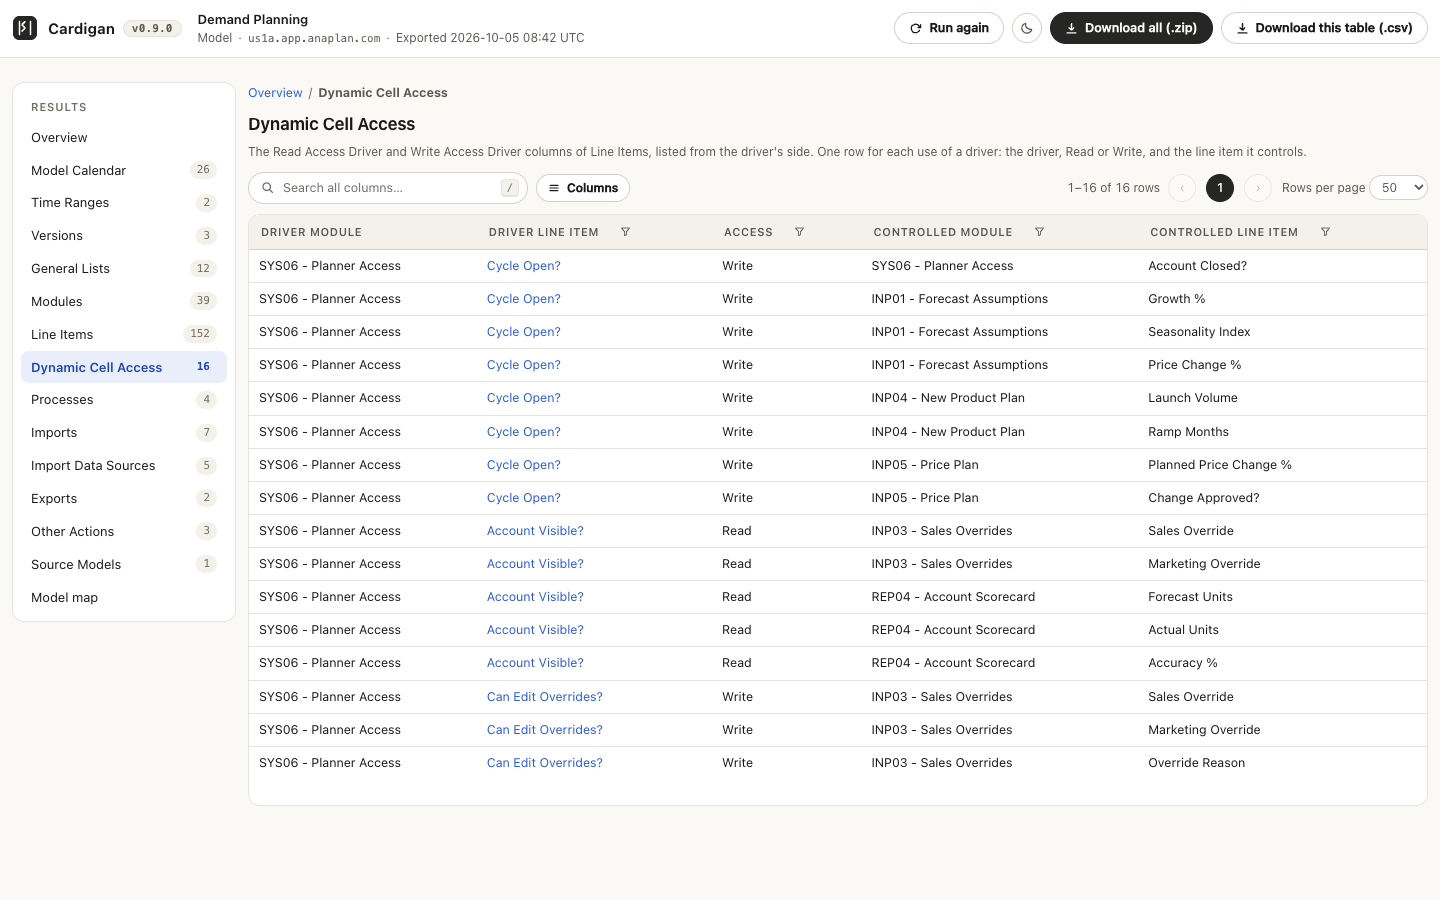
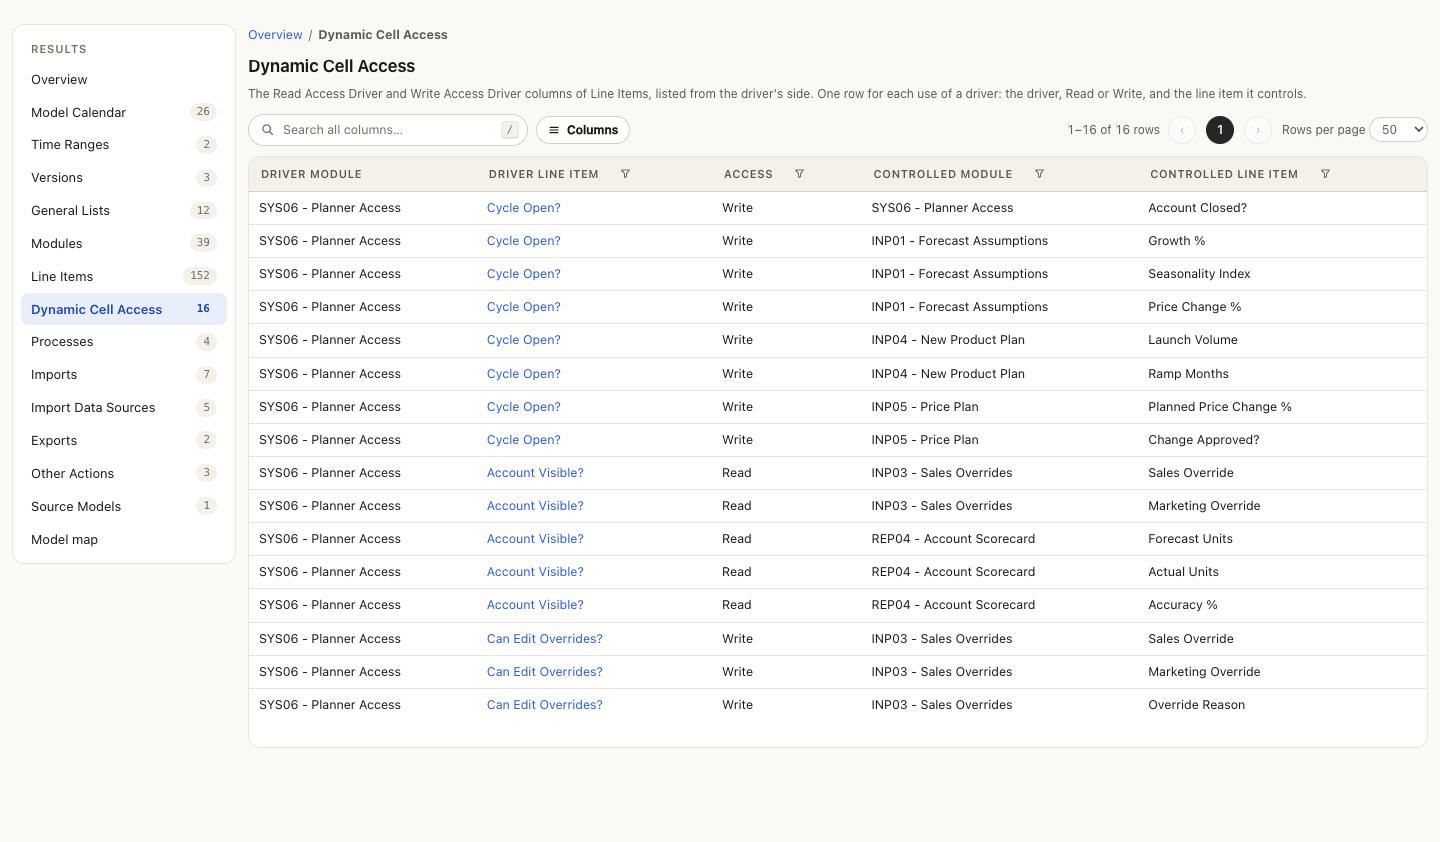
docs: cut the header off five pictures and remove the four that are untrue
The header in every picture showed Download all (.zip) and Download this
table (.csv), which the page no longer has.

Five pictures are true below the header. Each keeps its rows from row 58
down as they were, pixel for pixel, and is 1440 x 842 now: app-overview,
app-cards, model-dynamic-cell-access, map-sections and map-line-items.

Four show words the page no longer says, and are removed:
- app-where-used: "The CSV lists every use."
- model-overview: "rows in the CSV" on two tiles, the heading Files, the
  row Imports.csv and "How to read these files"
- model-line-items: "39 module rows are in the CSV only"
- map-modules: "Line Items.csv, row 92" at the foot of the details

The README shows the five that are left, each at its full width beside
the text it belongs to, and says that the pictures leave out the bar at
the top of the page.

diff --git a/README.md b/README.md
@@ -4,9 +4,9 @@ Cardigan is a Chrome extension for Anaplan. Open an app or a model, click the Ca
 
 Cardigan only reads, with your own signed-in session, and nothing it reads leaves your browser. It is an independent project, not affiliated with Anaplan: see [NOTICE.md](NOTICE.md).
 
-![The results page for an app: the Overview, with the number of rows in each table and the details of the export](docs/images/app-overview.png)
+![An app's Overview on the results page: the number of rows in each table, what was read and when under About this export, and the notes](docs/images/app-overview.png)
 
-The pictures on this page show an invented app and model.
+The pictures on this page show an invented app and model. They leave out the bar at the top of the page.
 
 ## What you get
 
@@ -24,20 +24,9 @@ Cardigan reads every published page of the app. The **Overview** counts each tab
 | **Action Buttons** | Button, with its action type and the model action it runs |
 | **Where Used** | Use of a module, line item, dimension, saved view, action or linked page by a card |
 
-**Where Used** opens **By object**: one row per object, with how many pages and cards use it and as what. A row opens the object with each of its uses. **Every use** lists the uses one by one.
+![An app's Cards table, searched for the word forecast, with the column chooser open and the pager at the top right](docs/images/app-cards.png)
 
-<table>
-  <tr>
-    <td width="50%" valign="top">
-      <a href="docs/images/app-cards.png"><img src="docs/images/app-cards.png" width="400" alt="An app's Cards table, searched for the word forecast, with the column chooser open and the pager at the top right"></a><br>
-      Cards, with search and the column chooser.
-    </td>
-    <td width="50%" valign="top">
-      <a href="docs/images/app-where-used.png"><img src="docs/images/app-where-used.png" width="400" alt="An app's Where Used table by object, with one module opened: it is the data source of eight cards on four pages"></a><br>
-      Where Used by object, with one module opened.
-    </td>
-  </tr>
-</table>
+**Where Used** opens **By object**: one row per object, with how many pages and cards use it and as what. A row opens the object with each of its uses. **Every use** lists the uses one by one.
 
 ### For a model
 
@@ -50,28 +39,13 @@ Open the model in Model Building; the classic model page opened on its own works
 - **Processes**, **Exports** and **Other Actions** are the Actions list, split at its headings. **Imports** joins each import's source and target with its last run, notes and processes.
 - **Model Calendar** follows an assessment template. **Model size (GB)** and **Captured by** are left for you to fill in.
 
-<table>
-  <tr>
-    <td width="33%" valign="top">
-      <a href="docs/images/model-overview.png"><img src="docs/images/model-overview.png" width="264" alt="The results page for a model: the Overview, with the number of rows in each table and the details of the export"></a><br>
-      A model's Overview.
-    </td>
-    <td width="33%" valign="top">
-      <a href="docs/images/model-line-items.png"><img src="docs/images/model-line-items.png" width="264" alt="A model's Line Items table in the dark theme: each line item with its module, its format in words, its formula and its summary"></a><br>
-      Line Items, in the dark theme.
-    </td>
-    <td width="33%" valign="top">
-      <a href="docs/images/model-dynamic-cell-access.png"><img src="docs/images/model-dynamic-cell-access.png" width="264" alt="A model's Dynamic Cell Access table: each access driver with the line items it controls, one row for each use, marked Read or Write"></a><br>
-      Dynamic Cell Access.
-    </td>
-  </tr>
-</table>
+![A model's Dynamic Cell Access table: each access driver with the line items it controls, one row for each use, marked Read or Write](docs/images/model-dynamic-cell-access.png)
 
 #### Model map
 
 **Model map**, the last entry in a model's navigation, draws the model: its sections, modules and line items, and what feeds what. It is made from the tables above and nothing else, so it reads nothing more from Anaplan.
 
-![The model map on the modules of one section: one module is selected, the modules that feed it stand at its left marked in blue, the modules it feeds at its right marked in red, and its details are in a panel on the right](docs/images/map-modules.png)
+![The model map as it opens: the eight sections of a model as boxes, with arrows between the sections that feed one another and the legend of the sections at the lower left](docs/images/map-sections.png)
 
 - The map opens on the model's sections. A section is the modules under one heading: a module whose name starts with `--`, such as `-- Inputs --`. Without headings it opens on the modules.
 - Double-click a section to open its modules, and a module to open its line items. **Show all modules** shows every module. `Esc` goes back a step.
@@ -81,18 +55,7 @@ Open the model in Model Building; the classic model page opened on its own works
 - The search finds sections, modules and line items by name. In the **Legend**, click an entry to hide or show its boxes. **Access drivers** adds a link from each access driver to what it controls.
 - Drag to move, scroll to zoom, press `F` for the whole map. **About this map** lists the keys. The map follows the page's theme.
 
-<table>
-  <tr>
-    <td width="50%" valign="top">
-      <a href="docs/images/map-sections.png"><img src="docs/images/map-sections.png" width="400" alt="The model map as it opens: the eight sections of a model as boxes, with arrows between the sections that feed one another and the legend of the sections at the lower left"></a><br>
-      The map opens on the model's sections.
-    </td>
-    <td width="50%" valign="top">
-      <a href="docs/images/map-line-items.png"><img src="docs/images/map-line-items.png" width="400" alt="The model map in the dark theme: one module's line items beside the modules they read and the modules they feed, with one line item selected and its formula at the top of the panel on the right"></a><br>
-      One module's line items, in the dark theme.
-    </td>
-  </tr>
-</table>
+![The model map in the dark theme, on one module's line items: one line item is selected, the boxes that feed it are marked in blue and the boxes it feeds in red, and a panel on the right gives its details, with its formula](docs/images/map-line-items.png)
 
 ## Install
 
